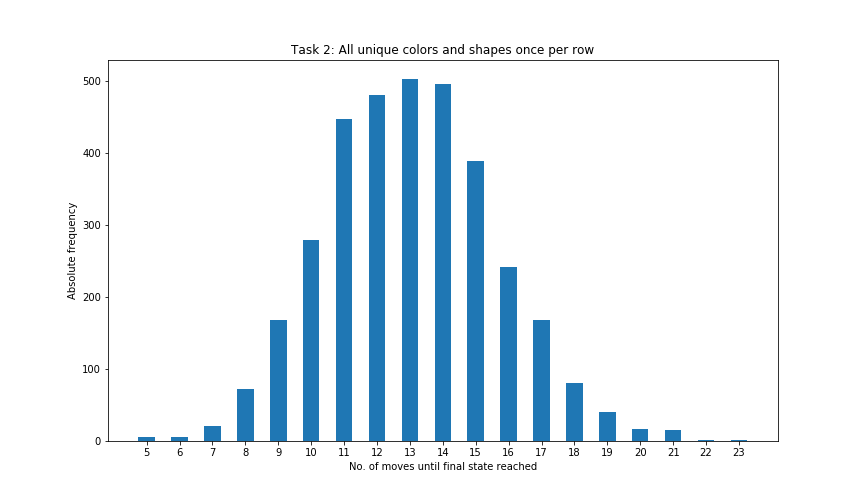
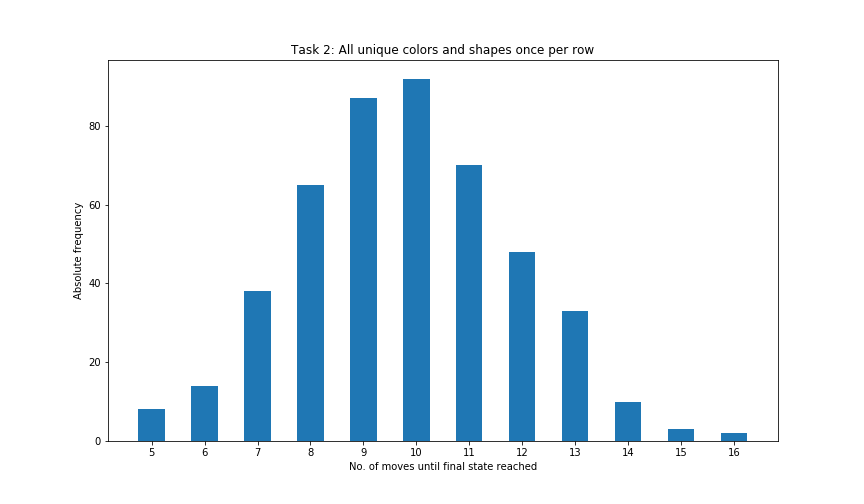
change plots

diff --git a/run_solver.py b/run_solver.py
@@ -16,7 +16,7 @@ solver = shelfsolver.ShelfSolver()
 
 use_multiprocessing = True
 n_tries_per_core = 400
-task = 3
+task = 2
 
 def thread_job(coreID):
     core_results = []
